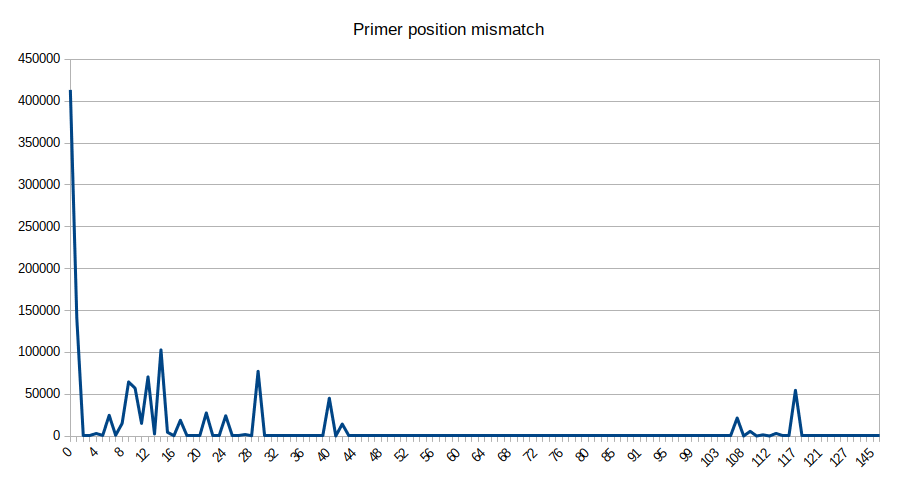
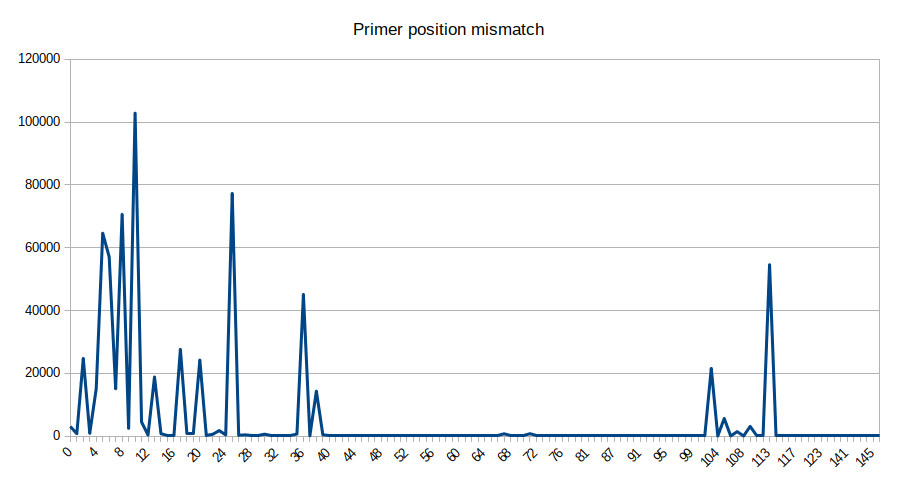
Lazy commit

diff --git a/scripts/Pavel_sorting.py b/scripts/Pavel_sorting.py
@@ -64,12 +64,13 @@ def processing(block):
 		r2 = AllData['result'][1] if AllData['result'][1]['pos'] > AllData['result'][2]['pos'] else AllData['result'][2]
 		
 		if r1['primer_name'] != r2['primer_name']: stat["Different primers"] += 1
-		if (abs(r1['dpos']) >= C_POS_MISMATCH) or (abs(r2['dpos']) >= C_POS_MISMATCH):
-			stat["Primer position mismatch"] += 1
-			if not abs(r1['dpos']) in stat["Primer position mismatch stat"]: stat["Primer position mismatch stat"][abs(r1['dpos'])] = 1
-			else: stat["Primer position mismatch stat"][abs(r1['dpos'])] += 1
-			if not abs(r2['dpos']) in stat["Primer position mismatch stat"]: stat["Primer position mismatch stat"][abs(r2['dpos'])] = 1
-			else: stat["Primer position mismatch stat"][abs(r2['dpos'])] += 1
+		if (abs(r1['dpos']) >= C_POS_MISMATCH) or (abs(r2['dpos']) >= C_POS_MISMATCH): stat["Primer position mismatch"] += 1
+		if (abs(r1['dpos']) >= C_POS_MISMATCH):
+			if not (abs(r1['dpos']) - C_POS_MISMATCH) in stat["Primer position mismatch stat"]: stat["Primer position mismatch stat"][abs(r1['dpos']) - C_POS_MISMATCH] = 1
+			else: stat["Primer position mismatch stat"][abs(r1['dpos']) - C_POS_MISMATCH] += 1
+		if (abs(r2['dpos']) >= C_POS_MISMATCH):
+			if not (abs(r2['dpos']) - C_POS_MISMATCH) in stat["Primer position mismatch stat"]: stat["Primer position mismatch stat"][abs(r2['dpos']) - C_POS_MISMATCH] = 1
+			else: stat["Primer position mismatch stat"][abs(r2['dpos']) - C_POS_MISMATCH] += 1
 		if (r1['barcode'] in barcodes.index) != (r2['barcode'] in barcodes.columns): stat["No barcode"] += 1
 		if (not (r1['barcode'] in barcodes.index)) and (not (r2['barcode'] in barcodes.columns)): stat["No both barcodes"] += 1
 		if r1['right_orient'] != r2['right_orient']: stat["Same orientation"] += 1
